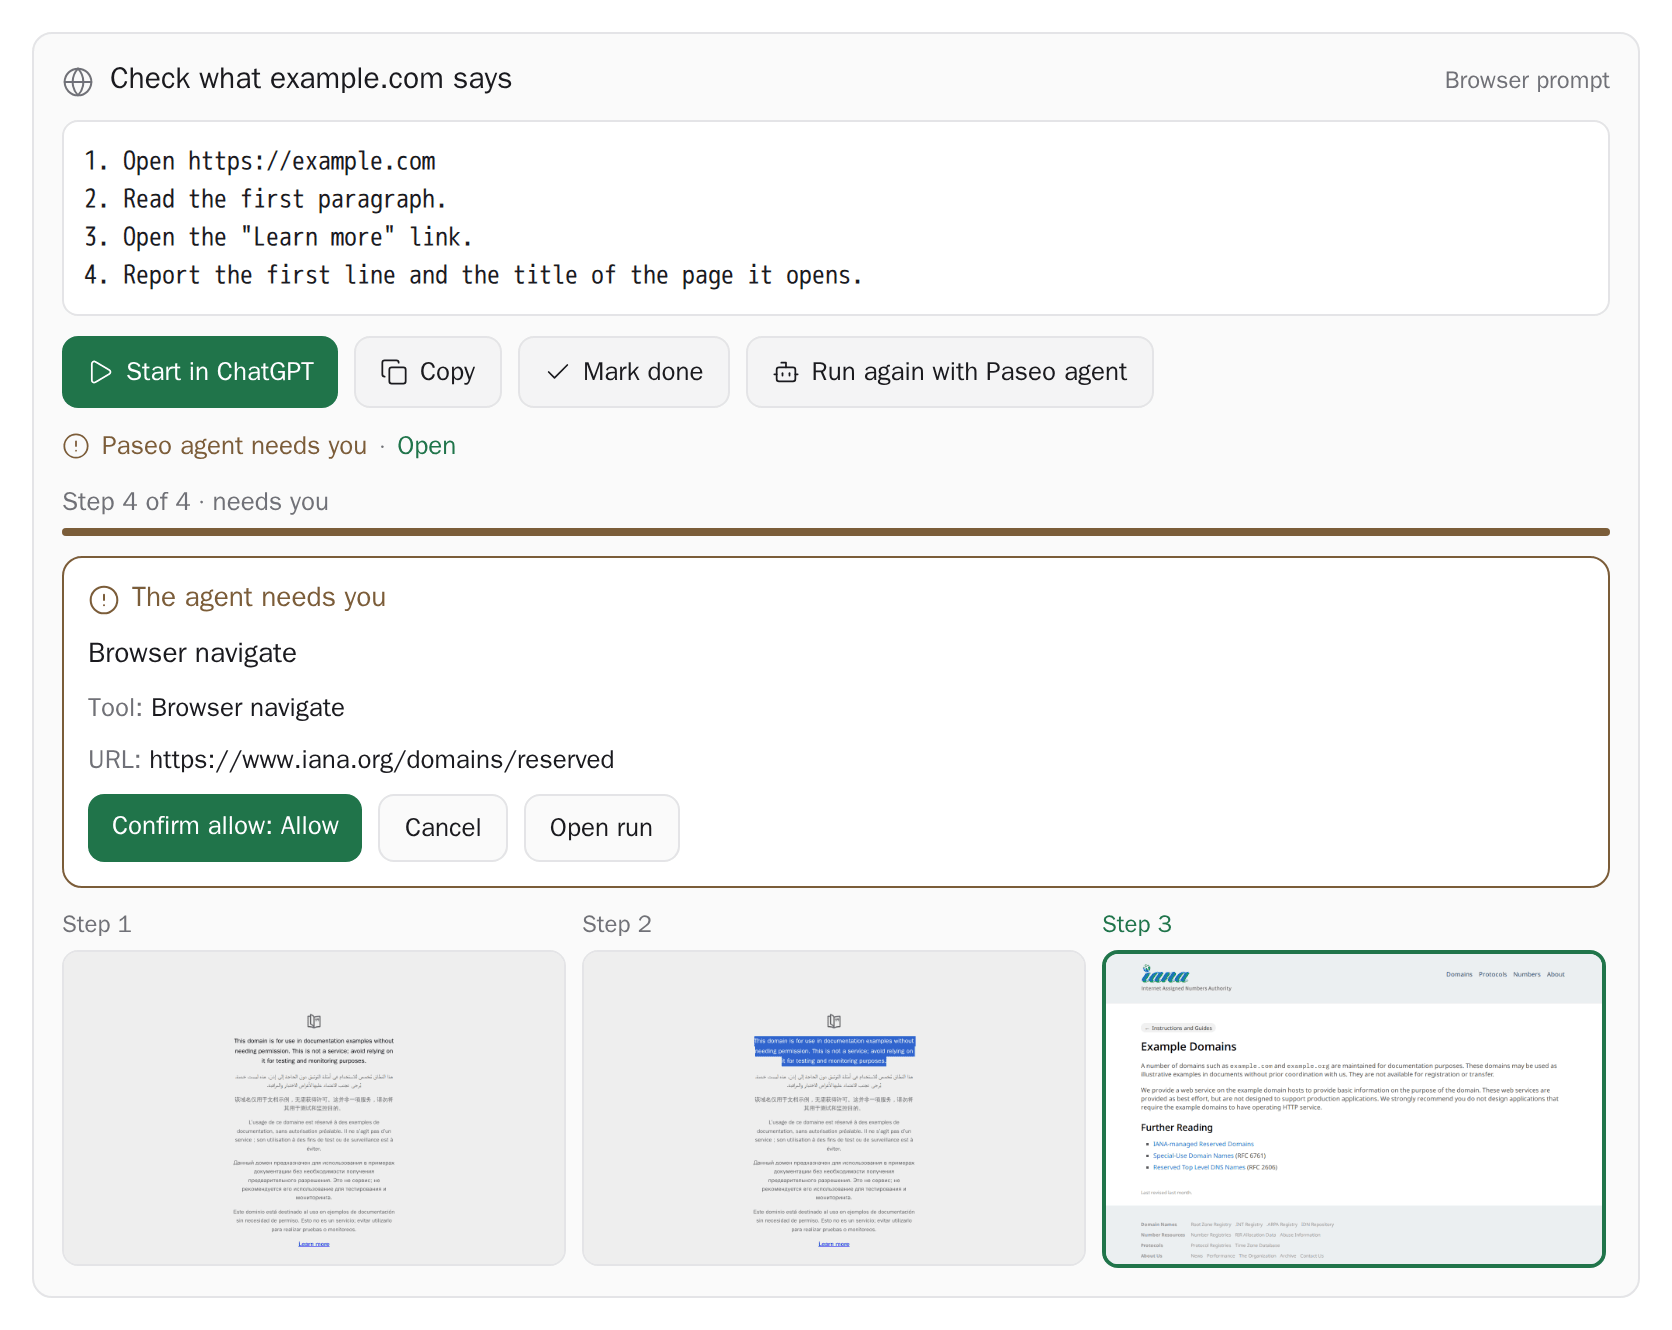
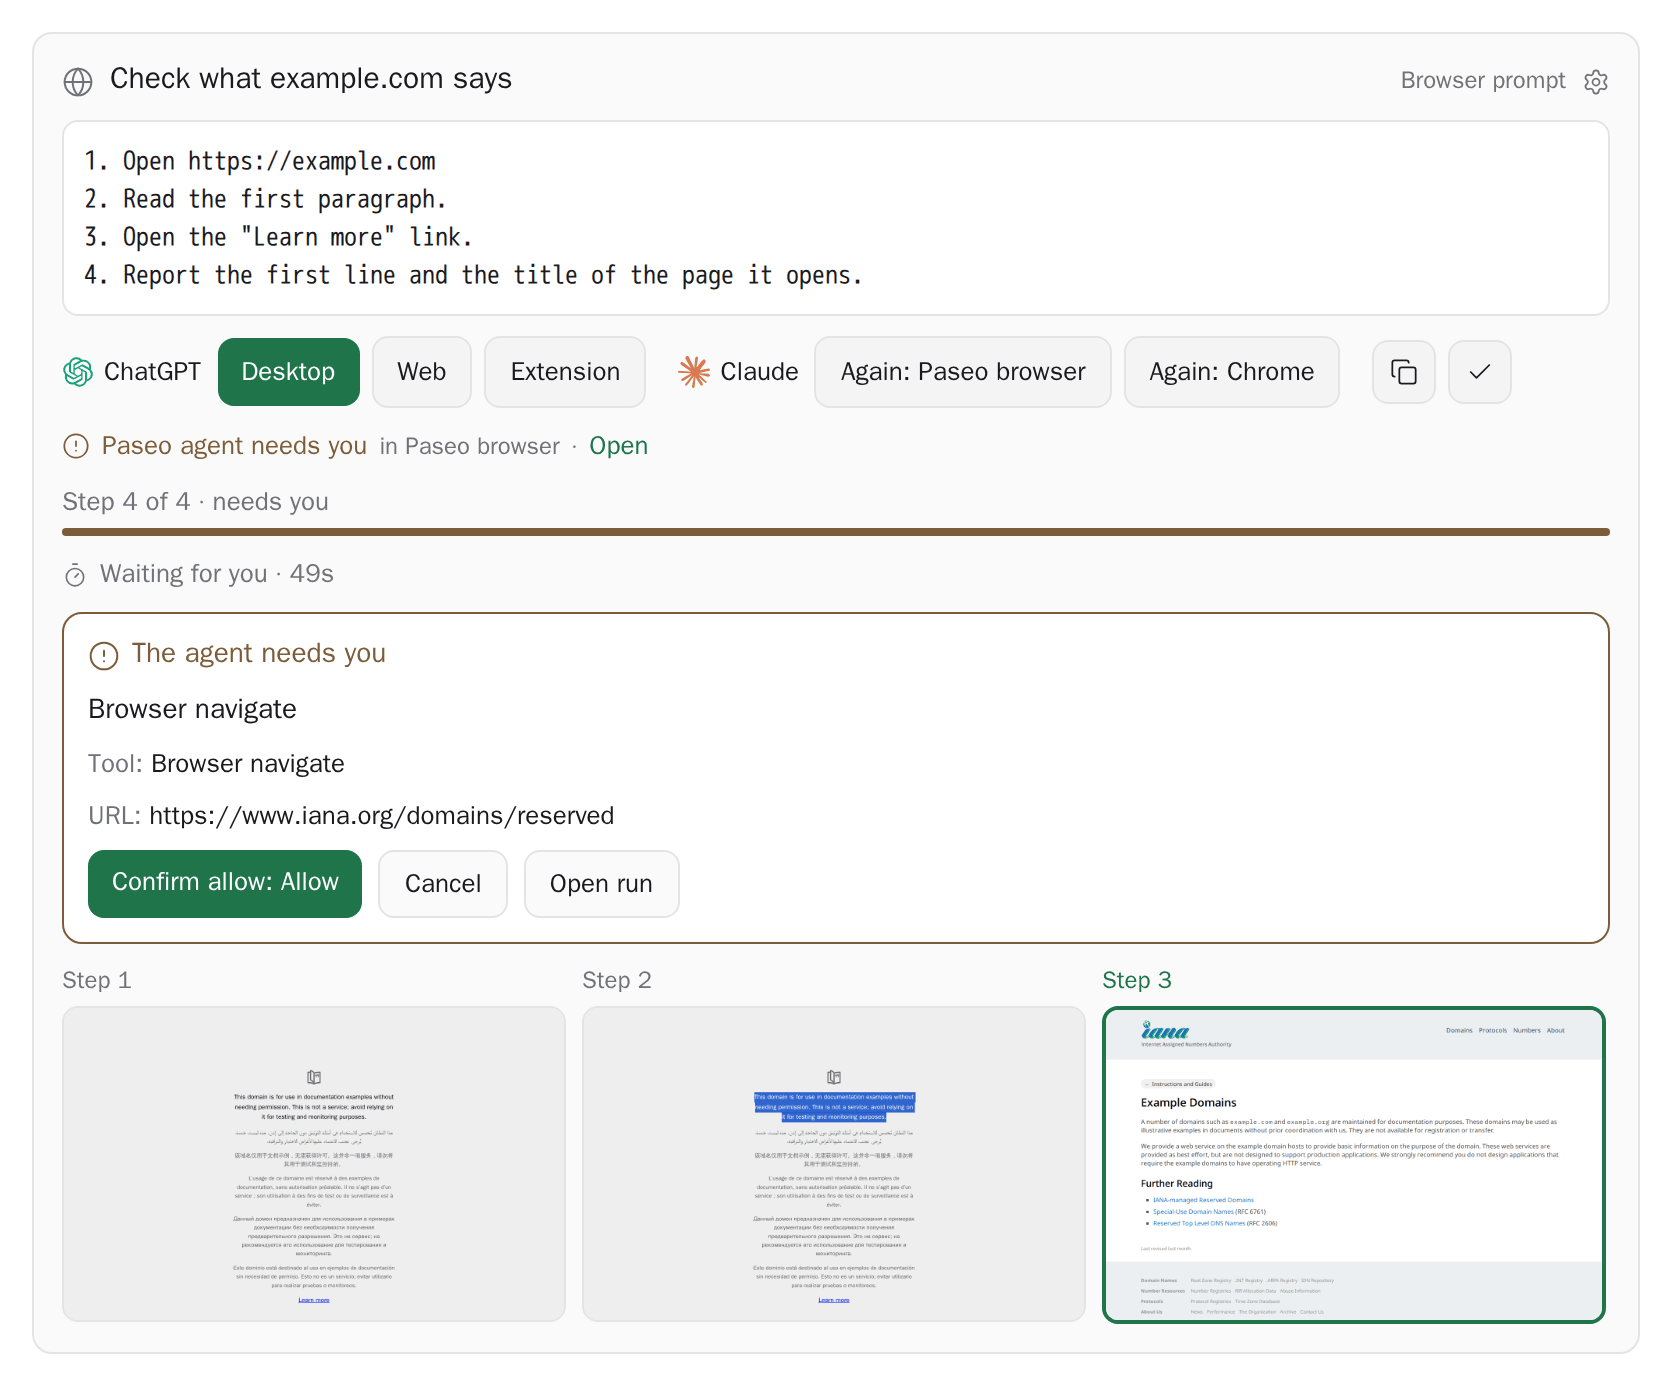
0.19.3: new README screenshots of the current card and settings

diff --git a/README.md b/README.md
@@ -64,8 +64,7 @@ See [OVERVIEW.md](OVERVIEW.md) for what it does, what data goes where, and its l
 
 ## How it works
 
-The screenshots below are the real Paseo app with this plugin, taken with version 0.10: the card's
-buttons and the first settings section look different now (see the table above). The agent text and the run's page
+The screenshots below are the real Paseo app with this plugin. The agent text and the run's page
 screenshots (real example.com and iana.org pages) are demo stand-ins; see
 [how they are made](scripts/demo/README.md). The settings named here are under Settings → Plugins →
 Browser prompts.
@@ -74,7 +73,7 @@ Browser prompts.
 each way to run it (see the table above). The agent buttons ask first when **Confirm before
 starting** is on.
 
-![The card in version 0.10, with Start in ChatGPT, Copy, Mark done and Run with Paseo agent; it now has a button per way](docs/screenshots/card.png)
+![The card: ChatGPT with Desktop, Web and Extension; Claude with Paseo browser and Chrome; copy and done icons](docs/screenshots/card.png)
 
 **2. Running in the background.** The agent works in the background and the card shows its state
 with an Open link (**Open the agent when started** opens it right away instead). "Step N of M" and
@@ -122,11 +121,11 @@ steps are done, later copies collapse to "✓ Already done · Show", and Show op
 
 **7. Settings.** Each behavior above is a setting (see [Settings](#settings) for the full list).
 
-![Settings in version 0.10: Start in ChatGPT (now Usual way to start), the deep link, Collapse repeated blocks that are done, and Done marks](docs/screenshots/settings-general.png)
+![Settings: Usual way to start, the deep link, Collapse repeated blocks that are done, and Done marks](docs/screenshots/settings-general.png)
 
 ![Settings: Run with Paseo agent options](docs/screenshots/settings-run.png)
 
-![Settings: the agent's provider, model, permission mode and thinking](docs/screenshots/settings-agent.png)
+![Settings: the agent's provider, model, permission mode, Claude in Chrome provider and thinking](docs/screenshots/settings-agent.png)
 
 **8. Updates.** Auto-update is off. For a Git install, the Updates section names the repository the
 plugin was installed from and says that, once enabled, newer plugin code from it is downloaded and

diff --git a/CHANGELOG.md b/CHANGELOG.md
@@ -1,5 +1,11 @@
 # Changelog
 
+## 0.19.3 (unreleased)
+
+- New README screenshots of the current card (grouped buttons with the ChatGPT and Claude marks, the
+  gear) and settings, from `scripts/demo/record.sh --stills`. The demo scripts find the card by its
+  ChatGPT group and the provider field by its exact name. The tour GIF and video are still from 0.10.
+
 ## 0.19.2 (unreleased)
 
 - Fix (registry review): the launch confirmation could describe another run than the one it starts.
